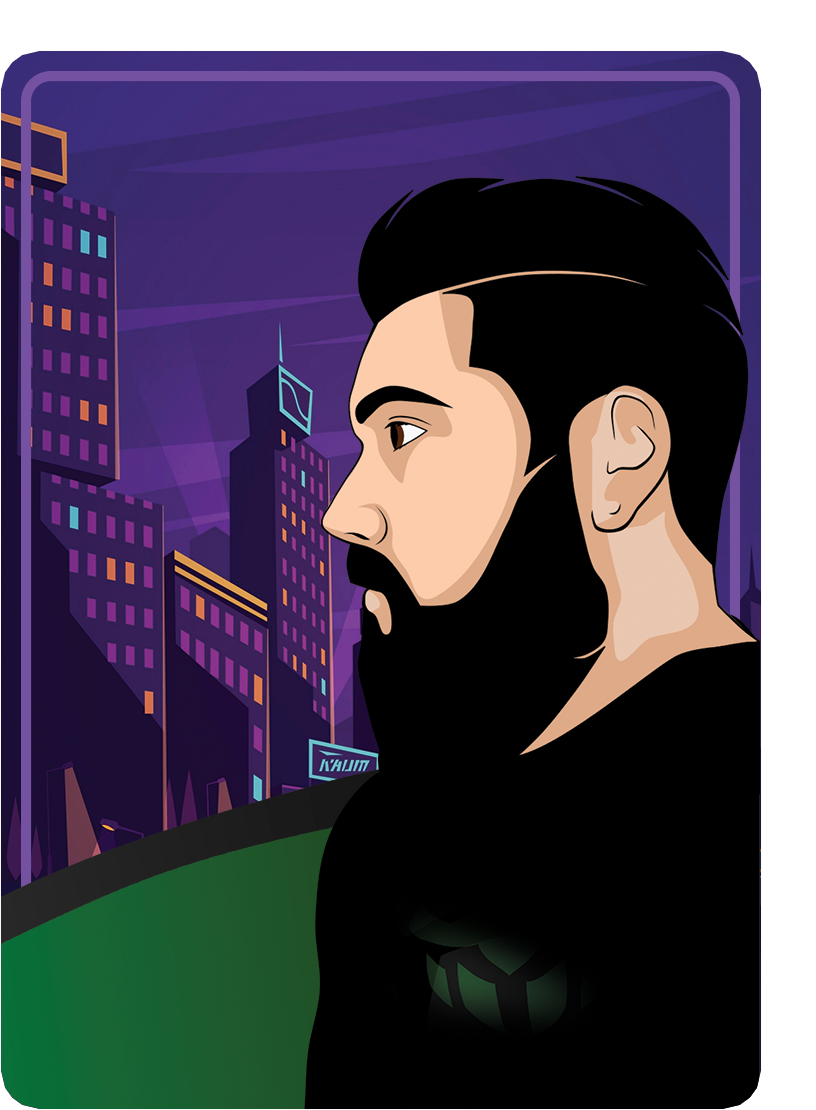
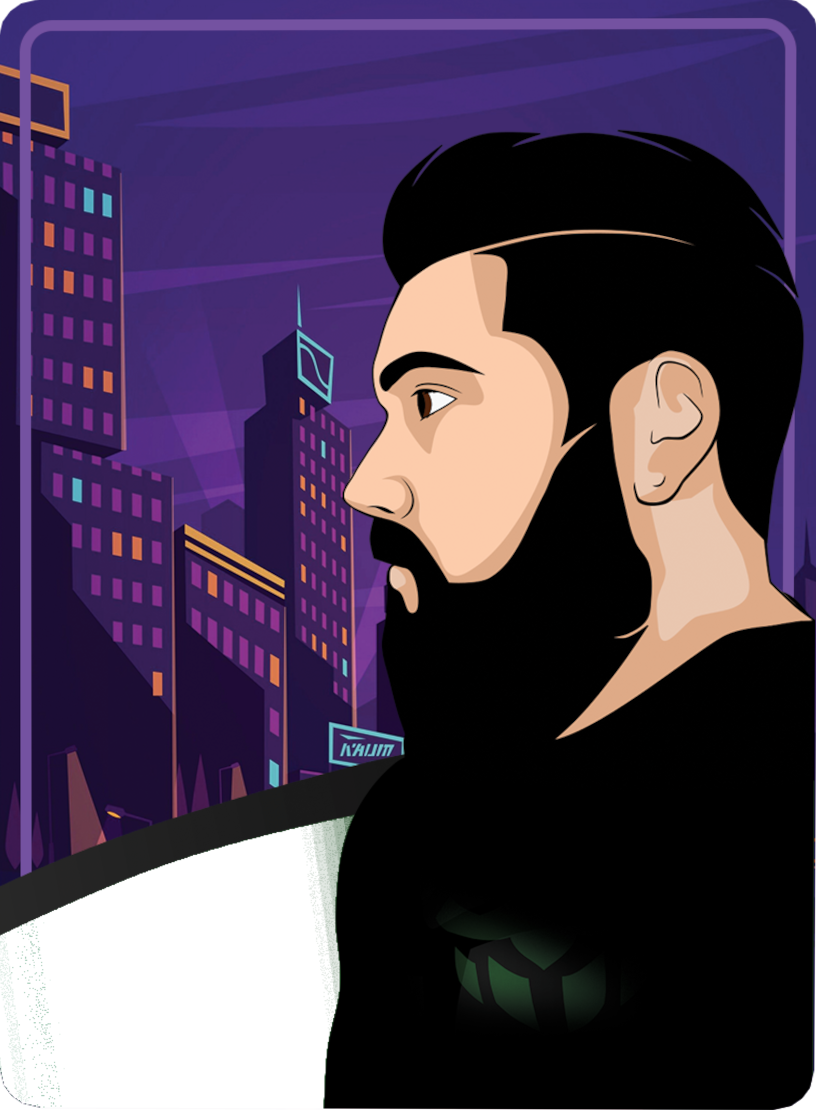
carte avec glare (bcp trop grande)

diff --git a/src/components/TiltCardWidgetDeluxe/TiltCardWidgetDeluxe.js b/src/components/TiltCardWidgetDeluxe/TiltCardWidgetDeluxe.js
@@ -2,41 +2,46 @@ import React from 'react';
 import Tilt from 'react-parallax-tilt';
 import './TiltCardWidgetDeluxe.css'
 
-function TiltCardWidgetDeluxe({ 
+function TiltCardWidgetDeluxe({
     fg,
+    shiny,
     bg,
     size = 1,
-    width = "48vmin"
- }) {
-      return (
-        <div style={{transform:`scale(${size})`}}>
+    width = "100%"
+}) {
+    return (
+        <div>
             <Tilt
-                className="parallax-tilt"
+                className="parallax-tilt-deluxe"
                 tiltMaxAngleX={10}
                 tiltMaxAngleY={10}
-                tiltReverse={true}
-                perspective={400}
-                transitionSpeed={1500}
-                scale={1.1}
-                gyroscope={true} 
-                style={{height: width, width: width}}>
+                perspective={1000}
+                glareEnable={true} 
+                glareMaxOpacity={0.3} 
+                glareColor="purple" 
+                glarePosition="all"
+                scale={1.1} 
+                style={{backgroundImage: "url('" + shiny + "')"}}>
 
-                <img 
+                <img
                     src={fg}
                     className="foreground-deluxe"
                     style={{
-                        width: width}}
+                        width: width
+                    }}
                     alt="pic" />
 
-                <img 
-                    src={bg} 
-                    className="background-deluxe" 
+                <img
+                    src={bg}
+                    className="background-deluxe"
                     style={{
-                        width: width}} 
+                        width: width
+                    }}
                     alt="pic" />
-            </Tilt> 
+
+            </Tilt>
         </div>
-    ); 
+    );
 }
 
 export default TiltCardWidgetDeluxe;

diff --git a/src/components/TiltCardWidgetDeluxe/TiltCardWidgetDeluxe.css b/src/components/TiltCardWidgetDeluxe/TiltCardWidgetDeluxe.css
@@ -1,33 +1,32 @@
-.parallax-tilt-deluxe {
+.parallax-tilt-deluxe   {
     display: flex;
     flex-direction: column;
     justify-content: center;
     align-items: center;
-
+    width: 816px;
+    height: 1110px;
     transform-style: preserve-3d;
+    transform: translateZ(0px);
 }
 
 .background-deluxe {
     position:absolute;
     top: 0px;
     left: 0px;
-
-    transform: translateZ(0px);
+    transform: translateZ(1px);
 }
 
 .foreground-deluxe {
     position:absolute;
     top: 0px;
     left: 0px;
-
     transform: translateZ(40px);
 }
+
 
 /* ====================================================================== */
 /* ========================= ADAPTATIONS MOBILE ========================= */
 /* ====================================================================== */
-
-
 /* si la taille d'écran est moins de 600px, mobile */
 @media screen and (max-width: 600px) {
     .background-deluxe {

diff --git a/src/cartes/daylights-deluxe/daylights-deluxe.js b/src/cartes/daylights-deluxe/daylights-deluxe.js
@@ -1,12 +1,15 @@
 import React from 'react';
 import foreground from './assets/foreground.png';
+import shiny from './assets/shiny.png'
 import background from './assets/background.png';
 import TiltCardWidgetDeluxe from '../../components/TiltCardWidgetDeluxe/TiltCardWidgetDeluxe';
 
 function DaylightsDeluxe() {
     return (
         <TiltCardWidgetDeluxe
+            
             fg={foreground}
+            shiny={shiny}
             bg={background} /> 
     );
 }
